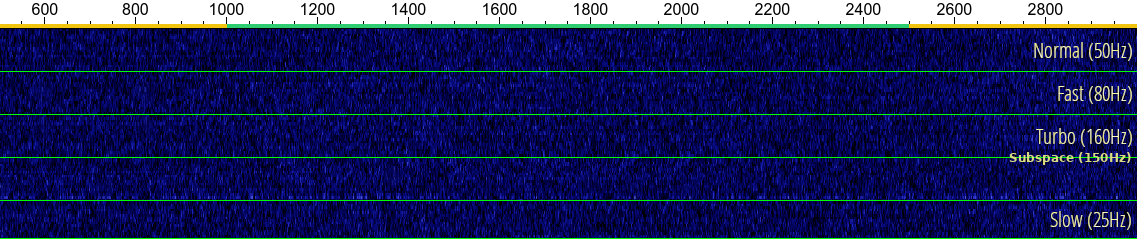
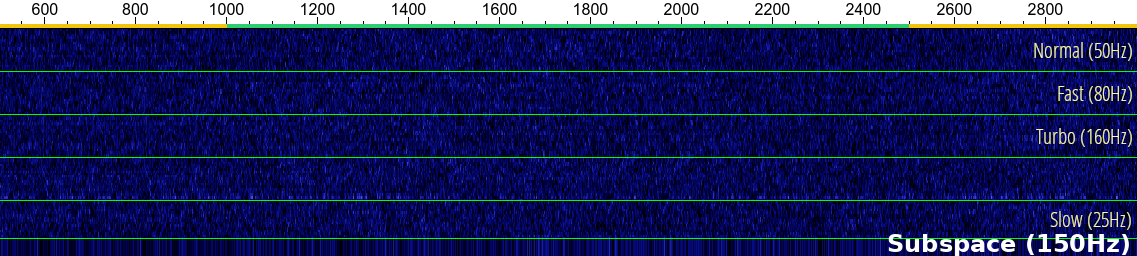
v3.0.5: relocate Subspace lane below Slow with larger white label
Per visual feedback: moved Subspace lane in waterfall.png and the
matching code 'sy' down by ~120% of bar width (~80 px). Doubled
font size (12 -> 24) and switched label color from yellow to
white to distinguish the new mode from upstream's lanes.

PNG canvas extended from 239 -> 256 px to fit the larger label.
Bar still draws on top of the slow-lane noise area at the bottom
(visually fine since the bar is small); label sits in the
extended bottom region.

diff --git a/js8spotter.py b/js8spotter.py
@@ -1,5 +1,5 @@
 #!/usr/bin/env python3
-# JS8Spotter v3.0.4 (050326). Visit https://kf7mix.com/js8spotter.html for information
+# JS8Spotter v3.0.5 (050326). Visit https://kf7mix.com/js8spotter.html for information
 # Special thanks to KE0DHO, KF0HHR, N0GES, N6CYB, KQ4DRG, NK8O, N0YJ, KI6ESH, N4FWD, KQ4HQD, KE0VCD, KN4AM, and everyone else who has contributed (see changelogs for more info)
 #
 # MIT License, Copyright 2026 Joseph D Lyman KF7MIX -- Permission is hereby granted, free of charge, to any person obtaining a copy of this software and associated documentation files
@@ -44,7 +44,7 @@ except ImportError:
 ### Globals
 swname = "JS8Spotter"
 fromtext = "de KF7MIX"
-displayversion = "3.0.4" # User-facing release version (window title, About, error messages)
+displayversion = "3.0.5" # User-facing release version (window title, About, error messages)
 swversion = "1.18"       # Internal DB-compatibility version (only used by the DB version check)
 dbminver = "1.17"        # Oldest DB version still accepted without warning
 
@@ -2495,10 +2495,10 @@ class App(tk.Tk):
                     w=11
                     h=78
                     sy=159
-                if record[5]=="16": # subspace mode: 150Hz bandwidth, 3-sec frame; lane sits between Turbo and Slow
+                if record[5]=="16": # subspace mode: 150Hz bandwidth, 3-sec frame; lane drawn below Slow (PNG canvas extended to 256px)
                     w=66
                     h=6
-                    sy=145
+                    sy=224
 
                 if i==1: scolor="#FF0000"
                 if i==2: scolor="#D51125"